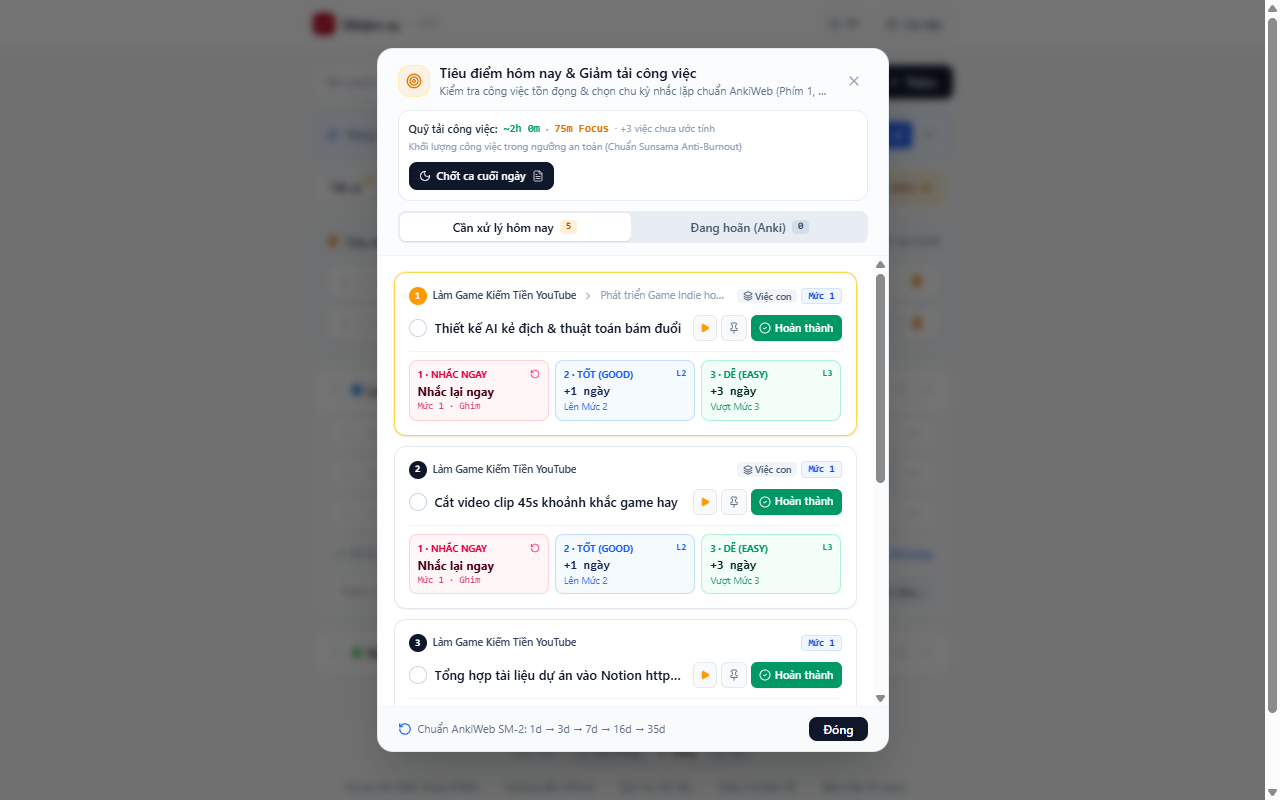
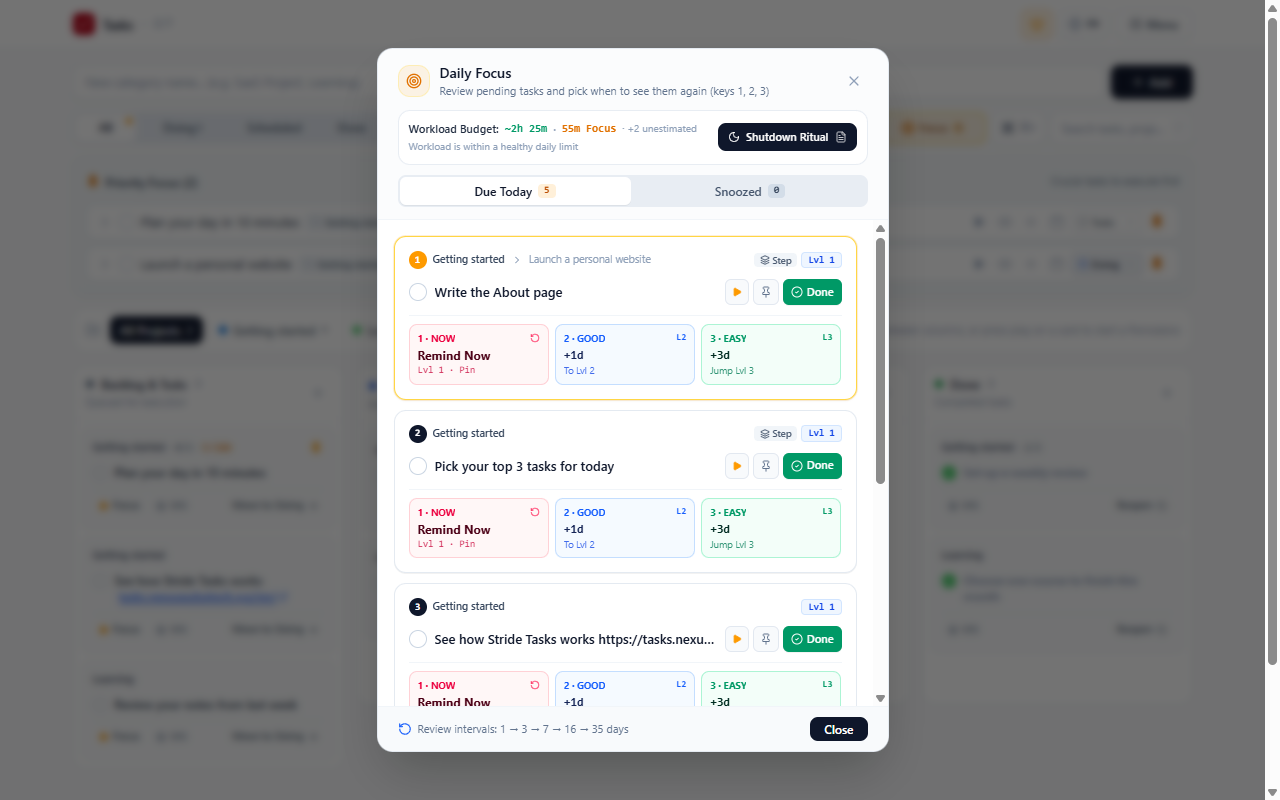
feat(site): fresh screenshots per language and an English install manifest
- Landing page screenshots were the old Vietnamese UI with the old sample
  data. Retaken from production with the current example projects:
  English set for /en/ and the install prompt, Vietnamese set for /vi/.
  Image URLs carry a version so CDNs drop the old files.
- The PWA manifest (name, description, shortcut, screenshot labels) is in
  English for the global market.
- Screen-reader labels and the language switch tooltip follow the UI
  language instead of being fixed in English.

diff --git a/public/vi/index.html b/public/vi/index.html
@@ -65,7 +65,7 @@
           </div>
           <p class="micro">Chạy ngay trên trình duyệt, cài như app trên Windows, macOS, Linux, Android và iPhone. Không cần đăng ký.</p>
           <div class="shot">
-            <img src="/screenshots/wide-list.png" width="1280" height="800" alt="Giao diện danh sách của Stride Tasks với dự án, việc con nhiều cấp và trạng thái" fetchpriority="high" />
+            <img src="/screenshots/vi/wide-list.png?v=20261110" width="1280" height="800" alt="Giao diện danh sách của Stride Tasks với dự án, việc con nhiều cấp và trạng thái" fetchpriority="high" />
           </div>
         </div>
       </section>
@@ -109,8 +109,8 @@
             <li>Giao diện sáng/tối · Tiếng Việt và English</li>
           </ul>
           <div class="gallery">
-            <figure><img src="/screenshots/wide-kanban.png" width="1280" height="800" loading="lazy" alt="Bảng Kanban với các cột Chờ, Đang làm, Duyệt và Xong" /><figcaption>Bảng Kanban</figcaption></figure>
-            <figure><img src="/screenshots/wide-daily-focus.png" width="1280" height="800" loading="lazy" alt="Tiêu điểm hôm nay hiển thị các việc cần ôn" /><figcaption>Tiêu điểm hôm nay với lịch ôn</figcaption></figure>
+            <figure><img src="/screenshots/vi/wide-kanban.png?v=20261110" width="1280" height="800" loading="lazy" alt="Bảng Kanban với các cột Chờ xử lý, Đang thực hiện, Đang duyệt và Hoàn thành" /><figcaption>Bảng Kanban</figcaption></figure>
+            <figure><img src="/screenshots/vi/wide-daily-focus.png?v=20261110" width="1280" height="800" loading="lazy" alt="Tiêu điểm hôm nay hiển thị các việc cần ôn" /><figcaption>Tiêu điểm hôm nay với lịch ôn</figcaption></figure>
           </div>
         </div>
       </section>

diff --git a/public/en/index.html b/public/en/index.html
@@ -65,7 +65,7 @@
           </div>
           <p class="micro">Runs in your browser and installs as an app on Windows, macOS, Linux, Android and iOS. No sign-up.</p>
           <div class="shot">
-            <img src="/screenshots/wide-list.png" width="1280" height="800" alt="Stride Tasks list view with projects, nested subtasks and status pills" fetchpriority="high" />
+            <img src="/screenshots/wide-list.png?v=20261110" width="1280" height="800" alt="Stride Tasks list view with projects, nested subtasks and status pills" fetchpriority="high" />
           </div>
         </div>
       </section>
@@ -109,8 +109,8 @@
             <li>Light and dark themes · English and Vietnamese</li>
           </ul>
           <div class="gallery">
-            <figure><img src="/screenshots/wide-kanban.png" width="1280" height="800" loading="lazy" alt="Kanban board with To do, In progress, Review and Done columns" /><figcaption>Kanban board</figcaption></figure>
-            <figure><img src="/screenshots/wide-daily-focus.png" width="1280" height="800" loading="lazy" alt="Daily Focus queue showing today's spaced-repetition reviews" /><figcaption>Daily Focus with today's reviews</figcaption></figure>
+            <figure><img src="/screenshots/wide-kanban.png?v=20261110" width="1280" height="800" loading="lazy" alt="Kanban board with Backlog, In progress, Review and Done columns" /><figcaption>Kanban board</figcaption></figure>
+            <figure><img src="/screenshots/wide-daily-focus.png?v=20261110" width="1280" height="800" loading="lazy" alt="Daily Focus queue with today's tasks and three review interval choices" /><figcaption>Daily Focus with today's reviews</figcaption></figure>
           </div>
         </div>
       </section>

diff --git a/src/components/layout/AppHeader.tsx b/src/components/layout/AppHeader.tsx
@@ -185,8 +185,8 @@ export function AppHeader({
               type="button"
               onClick={toggleLanguage}
               className="h-7.5 w-[50px] px-1.5 rounded-lg border border-slate-200/90 dark:border-slate-700/80 bg-white dark:bg-slate-800/70 hover:bg-slate-100 dark:hover:bg-slate-800 text-slate-700 dark:text-slate-200 font-mono text-[11px] font-semibold transition-colors cursor-pointer shrink-0 flex items-center justify-center gap-1 shadow-2xs"
-              title={language === 'vi' ? 'Chuyển sang English (Switch to English)' : 'Chuyển sang Tiếng Việt (Switch to Vietnamese)'}
-              aria-label="Switch Language"
+              title={language === 'vi' ? 'Chuyển sang tiếng Anh (English)' : 'Switch to Vietnamese (Tiếng Việt)'}
+              aria-label={language === 'vi' ? 'Chuyển sang tiếng Anh (English)' : 'Switch to Vietnamese (Tiếng Việt)'}
             >
               <Globe className="w-3.5 h-3.5 text-slate-400 shrink-0" strokeWidth={1.75} />
               <span className="font-bold">{language.toUpperCase()}</span>

diff --git a/src/features/focus/components/FocusBanner.tsx b/src/features/focus/components/FocusBanner.tsx
@@ -42,7 +42,7 @@ export function FocusBanner({
         onClick={onExitFocusMode}
         className="px-2.5 py-1.5 bg-slate-100 dark:bg-slate-800 hover:bg-slate-200/80 dark:hover:bg-slate-700 text-slate-800 dark:text-slate-200 rounded-lg text-xs font-medium shrink-0 cursor-pointer shadow-2xs transition-colors flex items-center gap-1.5"
         title="Esc / F"
-        aria-label="Exit Focus"
+        aria-label={language === 'vi' ? 'Thoát chế độ tập trung' : 'Exit focus mode'}
       >
         <span>{language === 'vi' ? 'Thoát' : 'Exit'}</span>
         <kbd className="hidden sm:inline text-[9px] text-slate-500 dark:text-slate-400 bg-white dark:bg-slate-900 border border-slate-200 dark:border-slate-700 px-1 py-0.5 rounded font-mono">

diff --git a/src/features/focus/components/ActiveFocusStrip.tsx b/src/features/focus/components/ActiveFocusStrip.tsx
@@ -150,7 +150,7 @@ export function ActiveFocusStrip({
               onClick={onStopSession}
               className="h-7.5 w-7.5 rounded-lg border border-slate-200 dark:border-slate-700 text-slate-400 hover:text-rose-600 dark:hover:text-rose-400 hover:bg-rose-50 dark:hover:bg-rose-950/30 flex items-center justify-center cursor-pointer transition-colors shrink-0"
               title={language === 'vi' ? 'Kết thúc phiên & lưu số phút đã làm' : 'End session & log elapsed minutes'}
-              aria-label="End focus session"
+              aria-label={language === 'vi' ? 'Kết thúc phiên tập trung' : 'End focus session'}
             >
               <X className="w-3.5 h-3.5 shrink-0" />
             </button>

diff --git a/src/features/tasks/components/KanbanBoardView.tsx b/src/features/tasks/components/KanbanBoardView.tsx
@@ -455,7 +455,7 @@ export function KanbanBoardView({
                               onToggleTaskDone(project.id, task.id, !isDone);
                             }}
                             className="mt-0.5 shrink-0 cursor-pointer"
-                            aria-label="Toggle completed"
+                            aria-label={language === 'vi' ? 'Đánh dấu xong hoặc chưa xong' : 'Toggle done'}
                           >
                             <div
                               className={`w-3.5 h-3.5 rounded-full border flex items-center justify-center transition-colors ${

diff --git a/src/features/tasks/components/TaskItem.tsx b/src/features/tasks/components/TaskItem.tsx
@@ -328,7 +328,7 @@ export function TaskItem({
                   : 'text-slate-400 hover:text-amber-600 dark:hover:text-amber-400 hover:bg-slate-100 dark:hover:bg-slate-800'
               }`}
               title={language === 'vi' ? 'Chạy đồng hồ Focus Pomodoro (25 phút)' : 'Start 25m Focus Pomodoro'}
-              aria-label="Start Focus Pomodoro"
+              aria-label={language === 'vi' ? 'Chạy đồng hồ tập trung' : 'Start a focus session'}
             >
               <Play className="w-3 h-3 shrink-0 fill-current" strokeWidth={1.5} />
             </button>

diff --git a/src/features/tasks/components/TaskDetailModal.tsx b/src/features/tasks/components/TaskDetailModal.tsx
@@ -431,7 +431,7 @@ export function TaskDetailModal({
                 type="button"
                 onClick={() => onToggleTaskDone(project.id, task.id, !isDone)}
                 className="mt-1 shrink-0 cursor-pointer p-0.5 rounded-full"
-                aria-label={isDone ? 'Mark undone' : 'Mark done'}
+                aria-label={isDone ? t.taskRow.markNotDone : t.taskRow.markDone}
               >
                 <div
                   className={`w-5 h-5 rounded-full border flex items-center justify-center transition-colors ${

diff --git a/src/features/tasks/components/PinnedSection.tsx b/src/features/tasks/components/PinnedSection.tsx
@@ -426,7 +426,7 @@ export function PinnedSection({
                     }
                   }}
                   className="shrink-0 cursor-pointer p-0.5 -m-0.5 rounded-full flex items-center justify-center"
-                  aria-label={isDone ? 'Mark undone' : 'Mark done'}
+                  aria-label={isDone ? t.taskRow.markNotDone : t.taskRow.markDone}
                 >
                   <div
                     className={`w-4 h-4 rounded-full border flex items-center justify-center transition-colors ${

diff --git a/src/features/modals/components/MarkdownReportModal.tsx b/src/features/modals/components/MarkdownReportModal.tsx
@@ -239,7 +239,7 @@ export function MarkdownReportModal({
     <div
       role="dialog"
       aria-modal="true"
-      aria-label="Markdown Report Generator"
+      aria-label={language === 'vi' ? 'Xuất báo cáo Markdown' : 'Markdown report'}
       style={{ zIndex: 10012 }}
       className="fixed inset-0 z-[10012] bg-slate-950/60 backdrop-blur-xs flex items-center justify-center p-3 sm:p-4 animate-in fade-in duration-150"
       onClick={onClose}

diff --git a/src/features/modals/components/CommandPaletteModal.tsx b/src/features/modals/components/CommandPaletteModal.tsx
@@ -376,7 +376,7 @@ export function CommandPaletteModal({
     <div
       role="dialog"
       aria-modal="true"
-      aria-label="Command Palette"
+      aria-label={language === 'vi' ? 'Thanh lệnh nhanh' : 'Command bar'}
       style={{ zIndex: 10015 }}
       className="fixed inset-0 z-[10015] bg-slate-950/60 backdrop-blur-xs flex items-start justify-center pt-[9vh] p-3 sm:p-4 animate-in fade-in duration-150"
       onClick={onClose}

diff --git a/CHANGELOG.md b/CHANGELOG.md
@@ -21,6 +21,9 @@ The format is based on [Keep a Changelog](https://keepachangelog.com/en/1.1.0/),
 - Links to the source code repository were removed from the app and the landing pages.
 - Reaching a Free limit opens the plans view with a calm note about what stays free and a Not now button, instead of a warning box plus a duplicate toast. The add-project box mentions when one Free project is left.
 - The PRO dialog and landing pages say why PRO is paid (no ads, no tracking, no investors) and invite anyone who cannot afford it to write in.
+- Landing page screenshots were retaken from the current app: English on the English page and in the install prompt, Vietnamese on the Vietnamese page.
+- The install manifest (app name, description, shortcut, screenshot labels) is in English for the global market.
+- Screen-reader labels and the language switch tooltip follow the interface language.
 - Every screen follows the chosen language: confirm dialogs, stats, the share card, backup, feedback, batch paste, and the help and phone setup guides. English users no longer see Vietnamese text, and dates, months and weekdays use English labels.
 - Markdown reports, quick capture labels and the focus timer tab title no longer use emoji.
 - The standalone offline HTML file is offered only in the Vietnamese interface, because that file is Vietnamese only. The English guides explain how to install the app instead.
